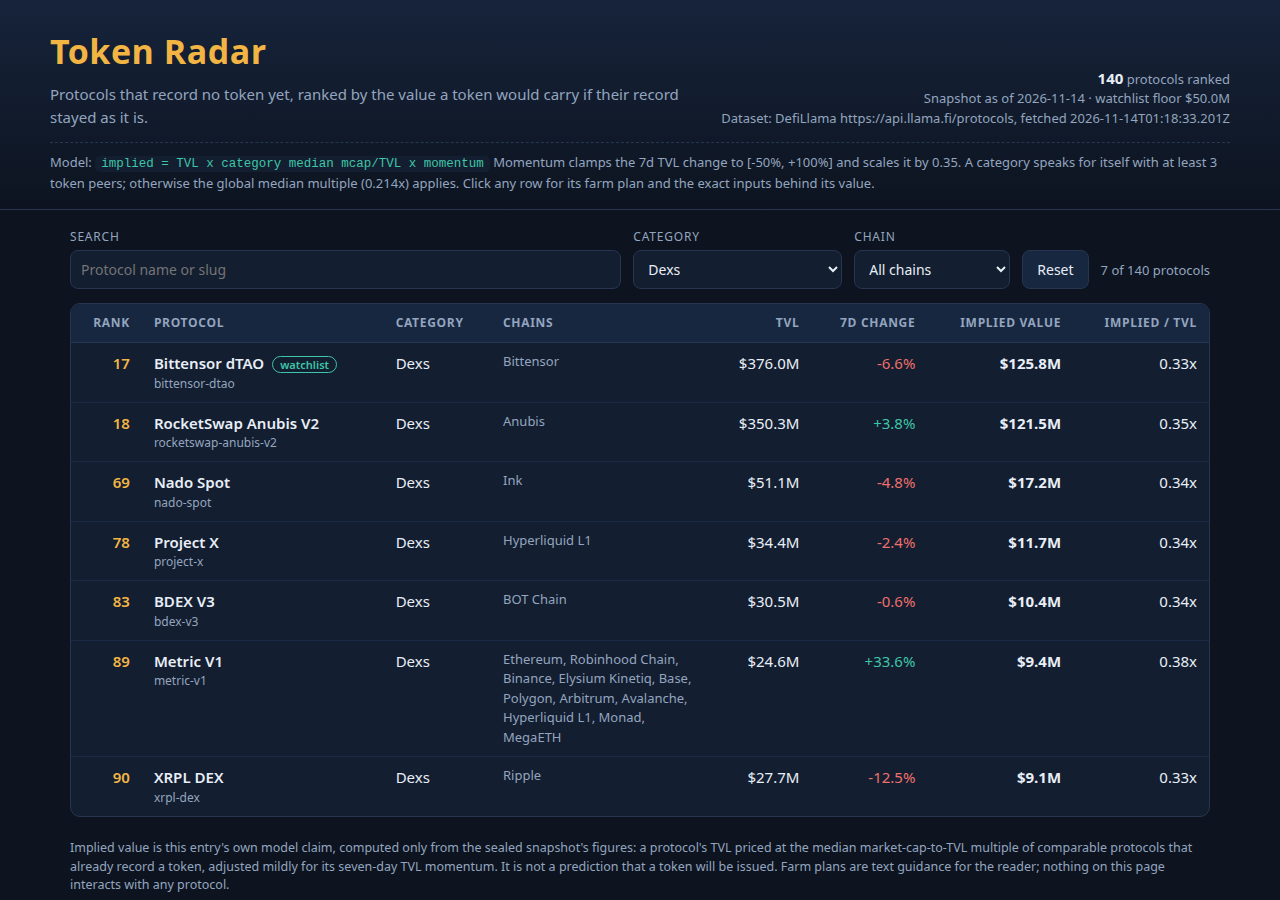
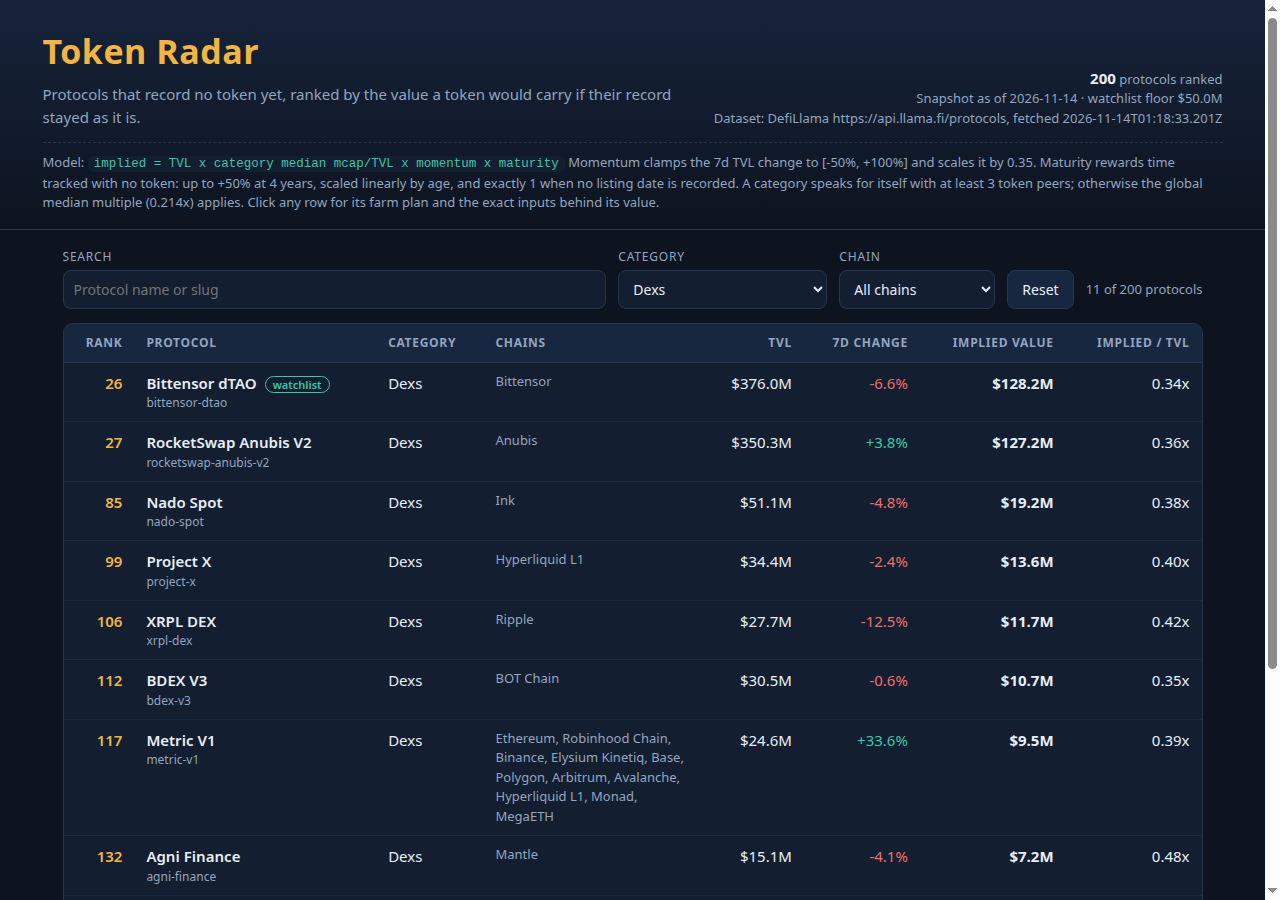
Review fix: age/maturity term in value model, narrowed fill classifier, 200-row board
- scoreRow now multiplies by a bounded maturity factor: 1 + 0.5 x
  min(age_days, 1460)/1460 from listed_at; unrecorded age is neutral (1).
  Rows carry model.age_factor; dashboard strip, detail view and README
  state the full formula.
- isTokenizedRepresentation narrowed: a bridge category alone no longer
  excludes. Exclusion needs evidence: a recorded token (gecko_id/symbol),
  a liquid-receipt category, a wrapped/staked name/slug marker, or — in a
  bridge category — a name/slug that names the carried asset (BTC/USDT).
  Bridge protocols (Coinbase Bridge, Base Bridge, CCIP, Aster Bridge,
  Circle Gateway) are fill-eligible again; exclusions drop 92 -> 62.
- Board widened 140 -> 200 rows (40 watchlist + 160 fill); screenshots
  regenerated from fresh output; dossier stays under the cap.
- README global median corrected to the computed 0.2138x (128 multiples).
- Tests: 15/15 (4 new: bridge negative + fill presence, age ramp bounds,
  age ordering at equal inputs with neutral unrecorded age).

diff --git a/lib/model.ts b/lib/model.ts
@@ -14,7 +14,14 @@
 //      is clamped to [CHANGE_FLOOR, CHANGE_CAP] percent and scaled by
 //      MOMENTUM_WEIGHT, so one hot week moves the value mildly, never
 //      wildly. An unreported change counts as zero (factor exactly 1).
-//   implied_value_usd = round(tvl_usd x ratio x momentum), whole dollars.
+//   4. A maturity factor rewards how long the protocol has run with no
+//      token: it grows linearly with the age in days since the snapshot
+//      first tracked the protocol (listed_at), from 1 at listing to
+//      1 + AGE_WEIGHT at AGE_CAP_DAYS, and stays at the cap beyond it.
+//      An unrecorded listing date counts as no evidence either way
+//      (factor exactly 1), the same neutrality as an unreported change.
+//   implied_value_usd = round(tvl_usd x ratio x momentum x maturity),
+//   whole dollars.
 //
 // The board is every watchlist slug plus the highest-TVL remaining
 // pre-token protocols, TARGET_ROWS in all. The fill (the non-watchlist
@@ -59,13 +66,17 @@ export const MODEL = {
   changeCap: 100,
   /** How much of the clamped change becomes a value factor: 1 + change/100 x weight. */
   momentumWeight: 0.35,
+  /** Most the maturity factor can add: 1 + weight at the age cap. */
+  ageWeight: 0.5,
+  /** Age in days at which the maturity factor reaches its cap (four years). */
+  ageCapDays: 1460,
   /** Board size: the 40 watchlist slugs plus the strongest early finds. */
-  targetRows: 140,
+  targetRows: 200,
   /** Gate cap on one row's implied value. */
   maxValue: 100_000_000_000_000,
 } as const;
 
-export const MODEL_NAME = 'category-median multiple x 7d momentum';
+export const MODEL_NAME = 'category-median multiple x 7d momentum x age maturity';
 
 /** The observed multiples: a median per category plus one global median. */
 export interface RatioTable {
@@ -94,6 +105,7 @@ export interface BoardRow {
     ratio_peers: number;
     momentum_factor: number;
     change_clamped_pct: number;
+    age_factor: number;
   };
   farm_steps: string[];
 }
@@ -136,15 +148,21 @@ export function isPreToken(p: SnapshotProtocol): boolean {
  * Fill exclusion: is this entry a tokenized representation of another
  * asset — a wrapped, bridged or liquid-staked product — rather than a
  * standalone protocol that has yet to issue a token? Decided only from
- * the snapshot's own fields (category, name, slug); no slug is listed
- * and no rank or value is consulted.
+ * the snapshot's own fields; no slug is listed and no rank or value is
+ * consulted. A bridge category BY ITSELF is not evidence: the snapshot's
+ * bridge categories hold both asset products (a wrapped Bitcoin issued
+ * by an exchange) and bridge protocols proper (services that move other
+ * people's assets and have yet to issue a token of their own — in this
+ * snapshot e.g. Coinbase Bridge, Base Bridge, CCIP, Aster Bridge and
+ * Circle Gateway, all with no token recorded). Only the protocol rows
+ * belong on a pre-token board, so a bridge entry is excluded only when
+ * a signal below identifies the entry itself as the asset product.
  *
  * An entry counts as a representation when ANY of these holds:
- *   1. Its category is a bridge category ('Bridge', 'Canonical
- *      Bridge', 'Cross Chain Bridge'). A bridge entry's TVL is
- *      collateral locked against wrapped copies of other chains'
- *      assets minted elsewhere, so the entry measures custody of
- *      assets that already have tokens, not a protocol awaiting one.
+ *   1. It already records a traded token (gecko_id or symbol present).
+ *      Whatever else it is, it is not a protocol awaiting a token.
+ *      (buildBoard's fill only ever sees pre-token rows, so this signal
+ *      completes the classifier rather than changing the fill.)
  *   2. Its category is a liquid receipt category ('Liquid Staking',
  *      'Liquid Restaking') or names a representation product outright
  *      ('Stablecoin Wrapper', 'Anchor BTC', 'Restaked BTC',
@@ -155,6 +173,16 @@ export function isPreToken(p: SnapshotProtocol): boolean {
  *      segment or a whole word in the name), whatever its category:
  *      the entry's own label says its product is a wrapped or staked
  *      representation of another asset.
+ *   4. It sits in a bridge category ('Bridge', 'Canonical Bridge',
+ *      'Cross Chain Bridge') AND its name or slug identifies the asset
+ *      it carries rather than a service: the word 'Bitcoin', a BTC or
+ *      USDT token in the name, or a slug segment that is, ends with, or
+ *      (for USDT) begins with that asset's ticker — the form bridged
+ *      tickers take (wbtc, tzbtc, sbtc, fbtc, usdt0, ...). In this
+ *      snapshot every bridge-category entry whose label names an asset
+ *      names Bitcoin/BTC or USDT, and those entries are the wrapped
+ *      products of exchanges and custodians; bridge entries whose
+ *      label names a service or a network stay eligible.
  *
  * Deliberate boundary: 'Staking Pool' and 'Restaking' entries stay
  * fill-eligible. They operate staking infrastructure and record no
@@ -162,10 +190,7 @@ export function isPreToken(p: SnapshotProtocol): boolean {
  * board's sense. The exclusion applies to the fill only; buildBoard
  * never applies it to watchlist slugs.
  */
-const REPRESENTATION_CATEGORIES: ReadonlySet<string> = new Set([
-  'bridge',
-  'canonical bridge',
-  'cross chain bridge',
+const RECEIPT_CATEGORIES: ReadonlySet<string> = new Set([
   'liquid staking',
   'liquid restaking',
   'stablecoin wrapper',
@@ -174,13 +199,31 @@ const REPRESENTATION_CATEGORIES: ReadonlySet<string> = new Set([
   'decentralized btc',
 ]);
 
+const BRIDGE_CATEGORIES: ReadonlySet<string> = new Set(['bridge', 'canonical bridge', 'cross chain bridge']);
+
 const REPRESENTATION_NAME = /\b(?:wrapped|staked)\b/i;
 const REPRESENTATION_SLUG = /(?:^|-)(?:wrapped|staked)(?:-|$)/;
 
+/** Does a bridge entry's name or slug name the asset it carries (Bitcoin/BTC, USDT) rather than a service? */
+function namesCarriedAsset(p: SnapshotProtocol): boolean {
+  if (/\bbitcoin\b/i.test(p.name)) return true;
+  for (const token of p.name.toUpperCase().split(/[^A-Z0-9]+/)) {
+    if (token === 'BTC' || token === 'USDT') return true;
+  }
+  for (const segment of p.slug.split('-')) {
+    if (segment === 'btc' || segment === 'usdt') return true;
+    if (segment.length > 3 && segment.endsWith('btc')) return true;
+    if (segment.length > 4 && segment.startsWith('usdt')) return true;
+  }
+  return false;
+}
+
 export function isTokenizedRepresentation(p: SnapshotProtocol): boolean {
+  if (p.gecko_id !== null || p.symbol !== null) return true;
   const category = (p.category ?? '').trim().toLowerCase();
-  if (REPRESENTATION_CATEGORIES.has(category)) return true;
-  return REPRESENTATION_NAME.test(p.name) || REPRESENTATION_SLUG.test(p.slug);
+  if (RECEIPT_CATEGORIES.has(category)) return true;
+  if (REPRESENTATION_NAME.test(p.name) || REPRESENTATION_SLUG.test(p.slug)) return true;
+  return BRIDGE_CATEGORIES.has(category) && namesCarriedAsset(p);
 }
 
 /** Whole days between the day DefiLlama began tracking a protocol and the snapshot date. */
@@ -235,13 +278,27 @@ export function momentumFor(change7d: number | null): { factor: number; clamped:
   return { factor: 1 + (clamped / 100) * MODEL.momentumWeight, clamped };
 }
 
+/**
+ * The maturity factor from a protocol's age in days: 1 + AGE_WEIGHT x
+ * min(age, AGE_CAP_DAYS) / AGE_CAP_DAYS — a linear ramp from 1 at listing
+ * to 1 + AGE_WEIGHT at the cap, flat beyond it. An unrecorded age (the
+ * snapshot carries no listed_at) is neutral: factor exactly 1.
+ */
+export function ageFactorFor(age: number | null): number {
+  if (age === null) return 1;
+  const capped = Math.min(Math.max(0, age), MODEL.ageCapDays);
+  return 1 + (capped / MODEL.ageCapDays) * MODEL.ageWeight;
+}
+
 const round4 = (n: number): number => Math.round(n * 1e4) / 1e4;
 
 /** Score one pre-token protocol: the full row except its rank. */
 function scoreRow(p: SnapshotProtocol, snapshot: Snapshot, table: RatioTable, onWatchlist: boolean): Omit<BoardRow, 'rank'> {
   const { ratio, basis, peers } = ratioFor(p, table);
   const { factor, clamped } = momentumFor(p.change_7d);
-  const raw = p.tvl_usd * ratio * factor;
+  const age = ageDays(snapshot.as_of, p.listed_at);
+  const ageFactor = ageFactorFor(age);
+  const raw = p.tvl_usd * ratio * factor * ageFactor;
   const value = Math.min(MODEL.maxValue, Math.max(1, Math.round(raw)));
   return {
     slug: p.slug,
@@ -251,7 +308,7 @@ function scoreRow(p: SnapshotProtocol, snapshot: Snapshot, table: RatioTable, on
     tvl_usd: p.tvl_usd,
     change_7d: p.change_7d,
     listed_at: p.listed_at,
-    age_days: ageDays(snapshot.as_of, p.listed_at),
+    age_days: age,
     on_watchlist: onWatchlist,
     implied_value_usd: value,
     model: {
@@ -260,6 +317,7 @@ function scoreRow(p: SnapshotProtocol, snapshot: Snapshot, table: RatioTable, on
       ratio_peers: peers,
       momentum_factor: round4(factor),
       change_clamped_pct: clamped,
+      age_factor: round4(ageFactor),
     },
     farm_steps: farmSteps(p),
   };

diff --git a/dashboard/app.js b/dashboard/app.js
@@ -81,8 +81,10 @@
 
   var mc = D.model_constants || {};
   document.getElementById('model-strip').innerHTML =
-    'Model: <code>implied = TVL x category median mcap/TVL x momentum</code> ' +
+    'Model: <code>implied = TVL x category median mcap/TVL x momentum x maturity</code> ' +
     'Momentum clamps the 7d TVL change to [' + mc.changeFloor + '%, +' + mc.changeCap + '%] and scales it by ' + mc.momentumWeight +
+    '. Maturity rewards time tracked with no token: up to +' + Math.round(mc.ageWeight * 100) + '% at ' + (mc.ageCapDays / 365) +
+    ' years, scaled linearly by age, and exactly 1 when no listing date is recorded' +
     '. A category speaks for itself with at least ' + mc.minPeers + ' token peers; otherwise the global median multiple (' +
     Number(D.global_median_ratio).toFixed(3) + 'x) applies. Click any row for its farm plan and the exact inputs behind its value.';
 
@@ -162,11 +164,12 @@
       fact('7d TVL change', r.change_7d === null ? 'not reported' : r.change_7d.toFixed(1) + '%',
         'clamped to ' + Number(m.change_clamped_pct).toFixed(1) + '% for the model') +
       fact('Momentum factor', Number(m.momentum_factor).toFixed(3) + 'x', '1 + clamped change x ' + mc.momentumWeight) +
+      fact('Maturity factor', Number(m.age_factor).toFixed(3) + 'x', 'time tracked with no token; 1 when unrecorded') +
       fact('Tracked for', age, r.listed_at ? 'first listed ' + r.listed_at : '') +
       '</div>' +
       '<h3>How this value is derived</h3>' +
       '<p>TVL ' + fullMoney(r.tvl_usd) + ' x multiple ' + Number(m.ratio).toFixed(3) + ' (' + esc(basis) + ') x momentum ' +
-      Number(m.momentum_factor).toFixed(3) + ' = ' + fullMoney(r.implied_value_usd) + '. ' +
+      Number(m.momentum_factor).toFixed(3) + ' x maturity ' + Number(m.age_factor).toFixed(3) + ' = ' + fullMoney(r.implied_value_usd) + '. ' +
       'The multiple is what the market currently pays per dollar of TVL for comparable protocols that already record a token.</p>' +
       '<h3>Farm plan</h3>' +
       '<ol class="steps">' + (r.farm_steps || []).map(function (s) { return '<li>' + esc(s) + '</li>'; }).join('') + '</ol>' +

diff --git a/dashboard/index.html b/dashboard/index.html
@@ -63,7 +63,7 @@
   </section>
 
   <footer>
-    <p>Implied value is this entry's own model claim, computed only from the sealed snapshot's figures: a protocol's TVL priced at the median market-cap-to-TVL multiple of comparable protocols that already record a token, adjusted mildly for its seven-day TVL momentum. It is not a prediction that a token will be issued. Farm plans are text guidance for the reader; nothing on this page interacts with any protocol.</p>
+    <p>Implied value is this entry's own model claim, computed only from the sealed snapshot's figures: a protocol's TVL priced at the median market-cap-to-TVL multiple of comparable protocols that already record a token, adjusted mildly for its seven-day TVL momentum and for how long it has run with no token. It is not a prediction that a token will be issued. Farm plans are text guidance for the reader; nothing on this page interacts with any protocol.</p>
   </footer>
 </main>
 

diff --git a/README.md b/README.md
@@ -17,17 +17,26 @@ snapshot's own figures — no protocol name is ever special-cased:
    grouped by the snapshot's `category`; a category with at least 3 such
    peers contributes its **median** ratio. Categories thinner than that —
    and protocols in them — fall back to the **global median** across all
-   categories (0.205x on this snapshot, from 129 observed multiples).
+   categories. The median is computed at runtime and printed in `data.js`
+   as `global_median_ratio`; on this snapshot it is 0.2138x, from 128
+   observed multiples.
 2. **Base value.** `base = tvl_usd x ratio` for the protocol's category.
 3. **Momentum.** The 7-day TVL change is clamped to [-50%, +100%] and
    scaled mildly: `momentum = 1 + clamped/100 x 0.35` (range 0.825–1.35).
    An unreported change counts as zero (factor exactly 1).
-4. **Implied value.** `implied_value_usd = round(tvl_usd x ratio x
-   momentum)`, whole dollars, at least $1, at most $100,000,000,000,000.
+4. **Maturity.** How long the protocol has run with no token:
+   `maturity = 1 + 0.5 x min(age_days, 1460) / 1460`, where `age_days`
+   counts from the snapshot's `listed_at` to its `as_of` date. A protocol
+   tracked for four years or more earns the full +50%; a younger one
+   earns proportionally less; an unrecorded listing date is neutral
+   (factor exactly 1), the same neutrality as an unreported change.
+5. **Implied value.** `implied_value_usd = round(tvl_usd x ratio x
+   momentum x maturity)`, whole dollars, at least $1, at most
+   $100,000,000,000,000.
 
 **Board composition.** Every one of the 40 watchlist slugs, plus the
 highest-TVL remaining pre-token protocols (both `gecko_id` and `symbol`
-null) up to 140 rows. Rows sort by implied value descending; exact ties
+null) up to 200 rows. Rows sort by implied value descending; exact ties
 break by TVL, then slug; a value that would repeat the previous row's is
 stepped down $1 at a time so the ranking is strict.
 
@@ -38,22 +47,37 @@ protocol awaiting one. The rule reads only the snapshot's own fields
 (`isTokenizedRepresentation` in `lib/model.ts`); no slug is listed and no
 rank or value is consulted. An entry is excluded when any of these holds:
 
-- its category is a bridge category (`Bridge`, `Canonical Bridge`,
-  `Cross Chain Bridge`) — a bridge entry's TVL is collateral locked
-  against wrapped copies of other chains' assets;
+- it already records a traded token (`gecko_id` or `symbol` present) —
+  whatever else it is, it is not a protocol awaiting a token;
 - its category is a liquid receipt or representation category (`Liquid
   Staking`, `Liquid Restaking`, `Stablecoin Wrapper`, `Anchor BTC`,
   `Restaked BTC`, `Decentralized BTC`) — the product is defined by the
   liquid token it issues against staked, restaked or wrapped assets;
 - its name or slug carries the word `wrapped` or `staked`, whatever its
-  category.
+  category;
+- it sits in a bridge category (`Bridge`, `Canonical Bridge`,
+  `Cross Chain Bridge`) **and** its name or slug names the asset it
+  carries rather than a service: the word `Bitcoin`, a `BTC` or `USDT`
+  token in the name, or a slug segment that is, ends with, or (for USDT)
+  begins with that asset's ticker — the form bridged tickers take
+  (`wbtc`, `tzbtc`, `sbtc`, `fbtc`, `usdt0`, ...).
+
+A bridge category **alone** does not exclude. The snapshot's bridge
+categories hold both asset products and bridge protocols proper —
+services that move other people's assets and have yet to issue a token
+of their own. Every bridge entry whose label names an asset names
+Bitcoin/BTC or USDT, and those are the wrapped products of exchanges
+and custodians (WBTC, USDT0, Binance Bitcoin, Function FBTC, Stacks
+sBTC among them); bridge entries whose label names a service or a
+network — Coinbase Bridge, Base Bridge, CCIP, Aster Bridge, Circle
+Gateway in this snapshot — are protocols in the board's sense and enter
+the fill.
 
 `Staking Pool` and `Restaking` entries stay eligible: they operate
 staking infrastructure and record no liquid receipt token as their
-product. On this snapshot the rule excludes 92 of the 302 fill
-candidates (WBTC, USDT0 and Binance staked ETH among them) and the fill
-takes the next eligible protocols instead; all 40 watchlist rows stay,
-including any that match the pattern.
+product. On this snapshot the rule excludes 62 of the 302 fill
+candidates and the fill takes the next eligible protocols instead; all
+40 watchlist rows stay, including any that match the pattern.
 
 **Dataset citation.** `board.json` carries the snapshot's `source` and
 `as_of` at the top level beside the rows, and the dashboard masthead
@@ -105,8 +129,14 @@ program write identical bytes.
   documented, rule-based classifier above (watchlist exempt). The fix
   itself still goes through the same team review gate before any
   submission.
-- Consider whether the model should also state an age/maturity term (the
-  snapshot's `listed_at`) — the current formula is the assigned design
-  (category multiple x momentum) and states age only as a displayed fact.
+- The review's age/maturity ask is implemented in this round: implied
+  value now carries the bounded maturity factor documented above
+  (weight 0.5, cap 1460 days, neutral when `listed_at` is unrecorded),
+  and each row's `model.age_factor` states the factor it was priced
+  with.
+- The board is widened from 140 to 200 rows (40 watchlist + 160 fill),
+  the starter example's size; all gate invariants, two-build
+  determinism and the screenshot/dossier caps were re-verified at the
+  new size.
 - Re-render screenshots if the dashboard changes; keep each under the
   512 KiB cap and the dossier under 1.5 MiB.
